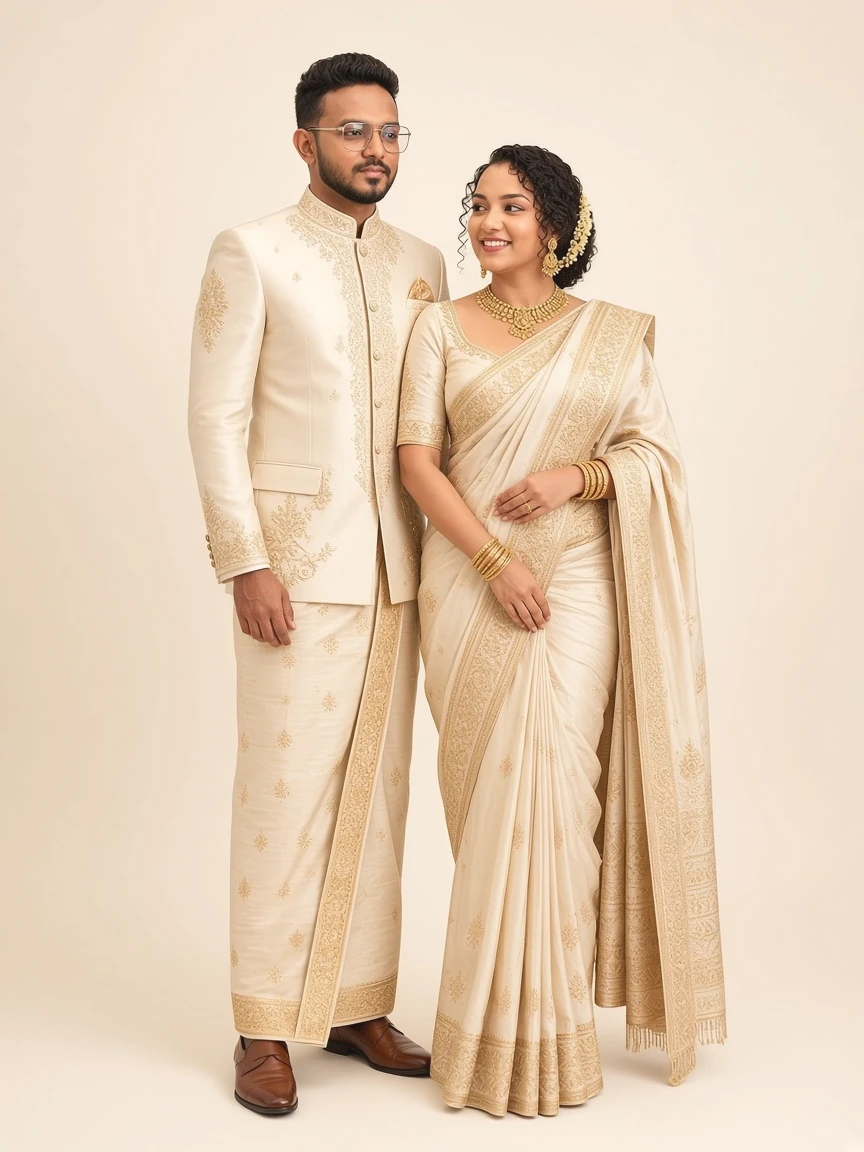
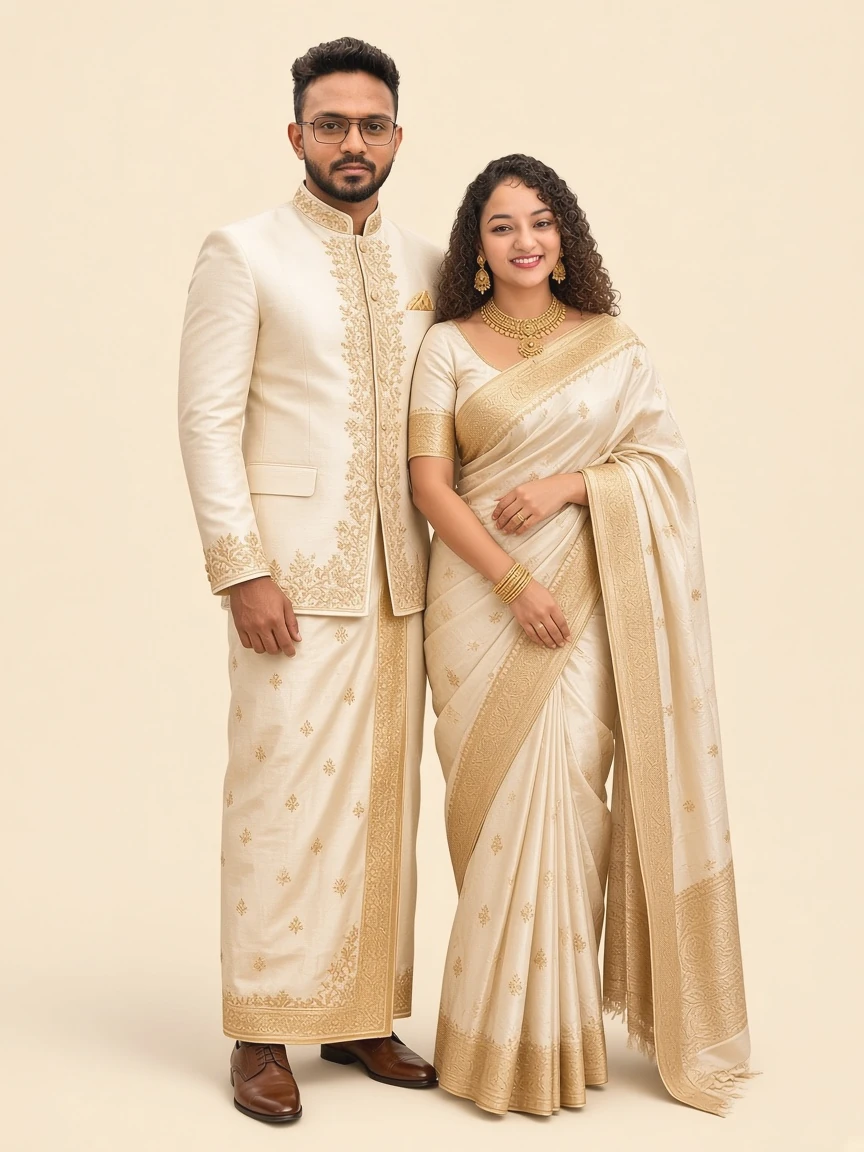
Correct the groom's face on the hero wedding portrait.

Changed region(s): [[0.1875, 0.0312, 0.875, 1.0]]

diff --git a/index.html b/index.html
@@ -77,7 +77,7 @@
             <p class="full-date">Thursday, 3<sup>rd</sup> December 2026</p>
             <div class="couple-wrap">
               <img
-                src="assets/couple-hero.webp?v=6"
+                src="assets/couple-hero.webp?v=7"
                 alt="Sanjana and Thenuka"
                 draggable="false"
               />
